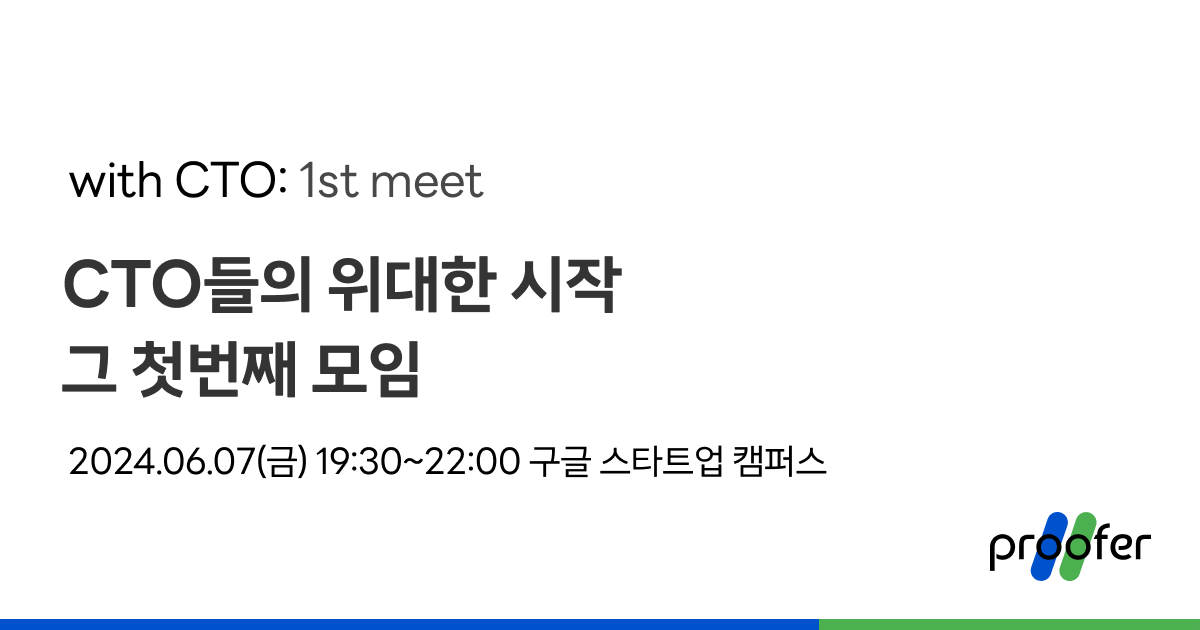
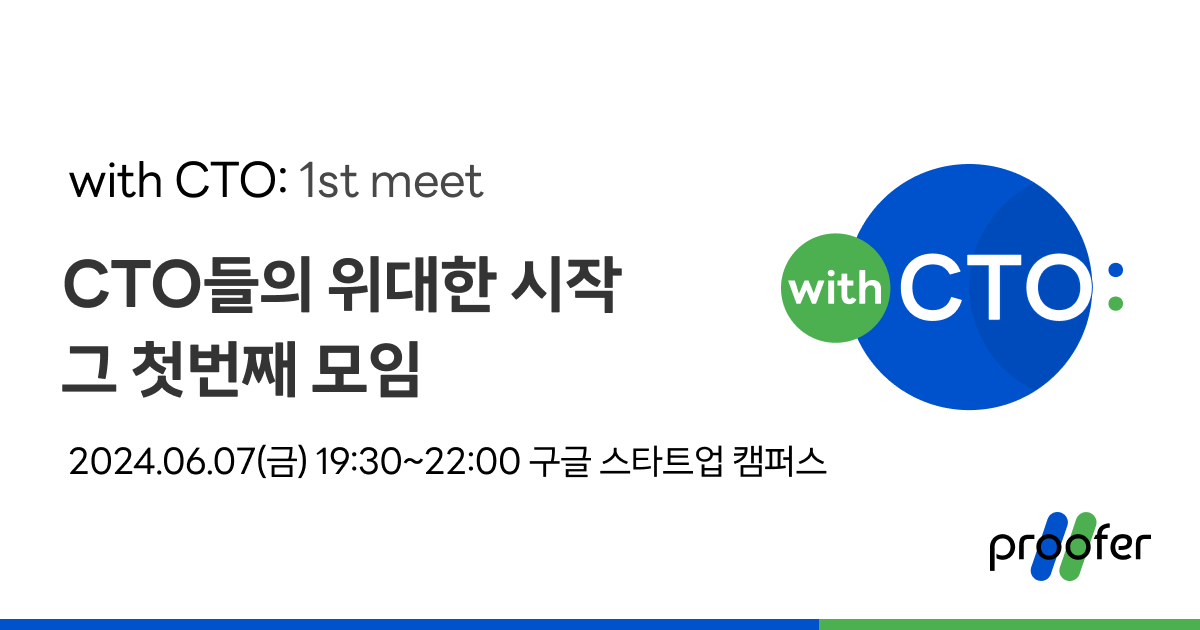
seo 고려하여 이미지들 변경

Changed region(s): [[0.6475, 0.2413, 0.9558, 0.6635]]

diff --git a/app/with-cto/page.tsx b/app/with-cto/page.tsx
@@ -23,45 +23,40 @@ export default function Page() {
       <Container h={"calc(100vh - var(--app-shell-header-height))"}>
         <Stack h={"100%"} justify={"space-between"}>
           <Stack gap={0} justify={"center"} h={"100%"}>
-            <Text size={"md"} c={"var(--mantine-color-gray-8)"}>
-              CTO들의 위대한 시작, 그 첫번째 모임
-            </Text>
-            <Group align={"center"}>
-              <Text
-                size={"xl"}
-                variant="gradient"
-                gradient={{
-                  from: "var(--color-primary)",
-                  to: "var(--color-secondary)",
-                  deg: 1,
-                }}
-                mt={"-0.5em"}
-                mb={"-0.3em"}
-                span
-              >
-                <Text fz={"1em"} span>
-                  with
-                </Text>{" "}
-                <Text fz={"2em"} fw={700} span>
-                  CTO:
+            <Stack gap={0} mb={"md"}>
+              <Text size={"md"} c={"var(--mantine-color-gray-8)"}>
+                CTO들의 위대한 시작, 그 첫번째 모임
+              </Text>
+              <Group align={"center"} p={0}>
+                <Image
+                  src={"/assets/images/with-cto/logo.png"}
+                  width={512}
+                  height={512}
+                  alt={"with CTO:"}
+                  style={{
+                    maxWidth: "40vw",
+                    maxHeight: "50vh",
+                    width: "auto",
+                    height: "auto",
+                  }}
+                />
+                <Text c={"var(--mantine-color-gray-5)"} size={"xl"}>
+                  1st meet
                 </Text>
+              </Group>
+              <Text>
+                on <Code>2024.06.07 19:30</Code> at{" "}
+                <Code>Google Startup Campus</Code>
               </Text>
-              <Text c={"var(--mantine-color-gray-5)"} size={"xl"}>
-                1st meet
-              </Text>
-            </Group>
-            <Text>
-              on <Code>2024.06.07 19:30</Code> at{" "}
-              <Code>Google Startup Campus</Code>
-            </Text>
-            <Group py={"xl"}>
+            </Stack>
+            <Group>
               <Button size={"lg"} component="a" href="https://bit.ly/with-cto">
                 참여등록 하러가기
               </Button>
               <CopyWithCTOButton size={"lg"} />
             </Group>
           </Stack>
-          <Space py={"4em"}>
+          <Space pb={"md"}>
             <Down />
           </Space>
         </Stack>

diff --git a/app/layout.tsx b/app/layout.tsx
@@ -43,6 +43,53 @@ export const metadata = merge(
       url: "https://proofer.tech",
       images: ["/assets/images/og-image.png"],
     },
+    icons: [
+      {
+        rel: "shortcut icon",
+        media: "(prefers-color-scheme: light)",
+        url: "/favicon.ico",
+        href: "/favicon.ico",
+      },
+      {
+        rel: "shortcut icon",
+        media: "(prefers-color-scheme: dark)",
+        url: "/favicon.ico",
+        href: "/favicon.ico",
+      },
+      {
+        rel: "icon",
+        type: "image/png",
+        sizes: "512x512",
+        url: "/pwa-512x512.png",
+        href: "/pwa-512x512.png",
+      },
+      {
+        rel: "icon",
+        type: "image/png",
+        sizes: "192x192",
+        url: "/pwa-192x192.png",
+        href: "/pwa-192x192.png",
+      },
+      {
+        rel: "icon",
+        type: "image/png",
+        sizes: "64x64",
+        url: "/pwa-64x64.png",
+        href: "/pwa-64x64.png",
+      },
+      {
+        rel: "apple-touch-icon",
+        sizes: "180x180",
+        url: "/apple-touch-icon-180x180.png",
+        href: "/apple-touch-icon-180x180.png",
+      },
+      {
+        rel: "mask-icon",
+        color: "#0052cc",
+        url: "/maskable-icon-512x512.png",
+        href: "/maskable-icon-512x512.png",
+      },
+    ],
   },
   generateMetadataFromTitle({
     title: "프루퍼, SMART 한 데이터 기반 성과 평가",
@@ -59,26 +106,6 @@ export default async function RootLayout({ children }: { children: any }) {
         <meta
           name="naver-site-verification"
           content="66a885dd71e438eca763ad82a8131045e4dabb59"
-        />
-        <link rel="shortcut icon" href="/favicon.ico" />
-        <link rel="apple-touch-icon" href="/apple-touch-icon-180x180.png" />
-        <link
-          rel="icon"
-          type="image/png"
-          sizes="512x512"
-          href="/pwa-512x512.png"
-        />
-        <link
-          rel="icon"
-          type="image/png"
-          sizes="192x192"
-          href="/pwa-192x192.png"
-        />
-        <link rel="icon" type="image/png" sizes="64x64" href="/pwa-64x64.png" />
-        <link
-          rel="mask-icon"
-          href="/maskable-icon-512x512.png"
-          color="#0052cc"
         />
         <script async src="https://tally.so/widgets/embed.js"></script>
       </head>

diff --git a/app/with-cto/layout.tsx b/app/with-cto/layout.tsx
@@ -15,6 +15,53 @@ export const metadata = merge(
       url: "https://proofer.tech/with-cto",
       images: ["/assets/images/with-cto/og-image.png"],
     },
+    icons: [
+      {
+        rel: "shortcut icon",
+        media: "(prefers-color-scheme: light)",
+        url: "/favicon.ico",
+        href: "/assets/images/with-cto/favicon.ico",
+      },
+      {
+        rel: "shortcut icon",
+        media: "(prefers-color-scheme: dark)",
+        url: "/favicon.ico",
+        href: "/assets/images/with-cto/favicon.ico",
+      },
+      {
+        rel: "icon",
+        type: "image/png",
+        sizes: "512x512",
+        url: "/pwa-512x512.png",
+        href: "/assets/images/with-cto/pwa-512x512.png",
+      },
+      {
+        rel: "icon",
+        type: "image/png",
+        sizes: "192x192",
+        url: "/pwa-192x192.png",
+        href: "/assets/images/with-cto/pwa-192x192.png",
+      },
+      {
+        rel: "icon",
+        type: "image/png",
+        sizes: "64x64",
+        url: "/pwa-64x64.png",
+        href: "/assets/images/with-cto/pwa-64x64.png",
+      },
+      {
+        rel: "apple-touch-icon",
+        sizes: "180x180",
+        url: "/apple-touch-icon-180x180.png",
+        href: "/assets/images/with-cto/apple-touch-icon-180x180.png",
+      },
+      {
+        rel: "mask-icon",
+        color: "#0052cc",
+        url: "/maskable-icon-512x512.png",
+        href: "/assets/images/with-cto/maskable-icon-512x512.png",
+      },
+    ],
   },
   generateMetadataFromTitle({
     title: "with CTO: 1st meet",

diff --git a/app/with-cto/manifest.ts b/app/with-cto/manifest.ts
@@ -1,0 +1,36 @@
+import { MetadataRoute } from "next";
+
+export default function manifest(): MetadataRoute.Manifest {
+  return {
+    name: "with CTO: 1st Meet",
+    short_name: "with CTO:",
+    description:
+      "CTO들의 위대한 시작, 그 첫번째 모임. 프루퍼팀에서 준비한 with CTO: 2024년 6월 7일 수요일 저녁 7시 30분 구글 스타트업 캠퍼스 에서 만나요!",
+    start_url: "/",
+    display: "minimal-ui",
+    background_color: "#ffffff",
+    theme_color: "#0052cc",
+    icons: [
+      {
+        src: "/assets/images/with-cto/favicon.ico",
+        sizes: "48x48",
+        type: "image/x-icon",
+      },
+      {
+        src: "/assets/images/with-cto/pwa-64x64.png",
+        sizes: "64x64",
+        type: "image/png",
+      },
+      {
+        src: "/assets/images/with-cto/pwa-192x192.png",
+        sizes: "192x192",
+        type: "image/png",
+      },
+      {
+        src: "/assets/images/with-cto/pwa-512x512.png",
+        sizes: "512x512",
+        type: "image/png",
+      },
+    ],
+  };
+}

diff --git a/theme.ts b/theme.ts
@@ -9,7 +9,7 @@ export const theme = createTheme({
     sm: rem(14),
     md: rem(16),
     lg: rem(24),
-    xl: rem(48),
+    xl: rem(32),
   },
   primaryColor: "primary",
   colors: {
